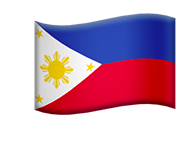
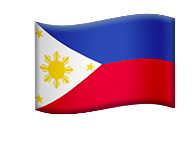
E5: Added Quebecois class, created its methods, and added its methods in script.js. Also edited the images that are faux-png's lol. Turned them into actual png's without white bg.

diff --git a/Exercises/Exercise5/js/script.js b/Exercises/Exercise5/js/script.js
@@ -15,18 +15,21 @@ Juggling with "true" identity
 let palm;
 let canadianFlags = [];
 let filipinoFlags = [];
+let quebecoisFlags = [];
 
 // Variables to store images
 let palmsImg;
 let canadianFlag;
 let filipinoFlag;
+let quebecoisFlag;
 
 //Declaring gravity Variable
 let gravityForce = 0.0025;
 
-// Variable to store the canadianFlags we'll display
+// Variable to store the flags displayed
 let numCanadianFlags = 30;
 let numFilipinoFlags = 30;
+let numQuebecFlags = 30;
 
 // let state = title;
 /*------------------------------------------------------------*/
@@ -36,6 +39,7 @@ function preload() {
   palmsImg = loadImage('assets/images/palms.png');
   canadianFlag = loadImage('assets/images/canadian.png');
   filipinoFlag = loadImage('assets/images/filipino.png');
+  quebecoisFlag = loadImage('assets/images/quebecois.png');
 }
 
 
@@ -48,7 +52,7 @@ function setup() {
  // for-loop for numCanadiancanadianFlags; allows many to appear
  for (let i = 0; i < numCanadianFlags; i++) {
    let x = random(0, width);
-   let y = random(-500, -200);
+   let y = random(-600, -200);
 
    let canadian = new Canadian(x, y, canadianFlag);
    canadianFlags.push(canadian);
@@ -57,16 +61,25 @@ function setup() {
 // for-loop for numFilipinoFlags
   for (let i = 0; i < numFilipinoFlags; i++) {
     let x = random(0, width);
-    let y = random(-500, -200);
+    let y = random(-600, -200);
 
     let filipino = new Filipino(x, y, filipinoFlag);
     filipinoFlags.push(filipino);
    }
+
+  // for-loop for numQuebecFlags
+   for (let i = 0; i < numQuebecFlags; i++) {
+     let x = random(0, width);
+     let y = random(-600, -200);
+
+     let quebecois = new Quebecois(x, y, quebecoisFlag);
+     quebecoisFlags.push(quebecois);
+    }
 }
 
 // Description of draw() goes here.
 function draw() {
-  background(250, 255, 176);
+  background(255);
 
   // calling Palms.js's methods
   palm.move();
@@ -97,5 +110,14 @@ function draw() {
   }
 
   /* QUEBECOIS */
+  for (let i = 0; i < quebecoisFlags.length; i++) {
+    let quebecoisFlag = quebecoisFlags[i];
+    if (quebecoisFlag.active) {
+      quebecoisFlag.gravity(gravityForce);
+      quebecoisFlag.move();
+      quebecoisFlag.bounce(palm);
+      quebecoisFlag.display();
+    }
+  }
 
 }

diff --git a/Exercises/Exercise5/js/Quebecois.js b/Exercises/Exercise5/js/Quebecois.js
@@ -1,0 +1,57 @@
+class Quebecois {
+
+    constructor(x, y, quebecoisFlag) {
+      this.x = x;
+      this.y = y;
+      this.vx = 0;
+      this.vy = 0;
+      this.ax = 0;
+      this.ay = 0;
+      this.maxSpeed = 10;
+      this.size = 50;
+      this.img = quebecoisFlag;
+      this.active = true;
+    }
+
+    gravity(force) {
+      this.ay += force;
+    }
+
+    move() {
+      this.vx += this.ax;
+      this.vy += this.ay;
+
+      this.vx = constrain(this.vx, -this.maxSpeed, this.maxSpeed);
+      this.vy = constrain(this.vy, -this.maxSpeed, this.maxSpeed);
+
+      this.x += this.vx;
+      this.y += this.vy;
+
+      if (this.y - this.size / 2 > height) {
+        this.active = false;
+      }
+    }
+
+    bounce(palm) {
+      if (this.x >= palm.x - palm.width/2 &&
+        this.x <= palm.x + palm.width/2 &&
+        this.y + this.size/2 > palm.y - palm.height/18 &&
+        this.y - this.size/2 < palm.y + palm.height/18) {
+
+      // BOUNCE
+      let dx = this.x - palm.x; // how far away it was from the CENTER
+      this.vx = this.vx + map(dx, -palm.width/2, palm.width/2, -0.5, 0.5);
+
+      //changing y movement
+      this.vy = -this.vy;
+      this.ay = 0;
+      }
+    }
+
+    display() {
+      push();
+      imageMode(CENTER);
+      image(this.img, this.x, this.y, this.size, this.size);
+      pop();
+    }
+  }

diff --git a/Exercises/Exercise5/js/Canadian.js b/Exercises/Exercise5/js/Canadian.js
@@ -40,7 +40,7 @@ class Canadian {
 
     // BOUNCE
     let dx = this.x - palm.x; // how far away it was from the CENTER
-    this.vx = this.vx + map(dx, -palm.width/2, palm.width/2, -1, 1);
+    this.vx = this.vx + map(dx, -palm.width/2, palm.width/2, -0.5, 0.5);
 
     //changing y movement
     this.vy = -this.vy;

diff --git a/Exercises/Exercise5/js/Filipino.js b/Exercises/Exercise5/js/Filipino.js
@@ -40,7 +40,7 @@ class Filipino {
 
     // BOUNCE
     let dx = this.x - palm.x; // how far away it was from the CENTER
-    this.vx = this.vx + map(dx, -palm.width/2, palm.width/2, -1, 1);
+    this.vx = this.vx + map(dx, -palm.width/2, palm.width/2, -0.5, 0.5);
 
     //changing y movement
     this.vy = -this.vy;

diff --git a/Exercises/Exercise5/index.html b/Exercises/Exercise5/index.html
@@ -15,6 +15,7 @@
   <script src="js/libraries/p5.sound.min.js"></script>
 
   <!-- My script(s) -->
+  <script src="js/Quebecois.js"></script>
   <script src="js/Filipino.js"></script>
   <script src="js/Canadian.js"></script>
   <script src="js/Palms.js"></script>

diff --git a/Exercises/Exercise5/css/style.css b/Exercises/Exercise5/css/style.css
@@ -8,4 +8,5 @@ body {
 }
 
 canvas {
+  border: 1px dashed black;
 }
